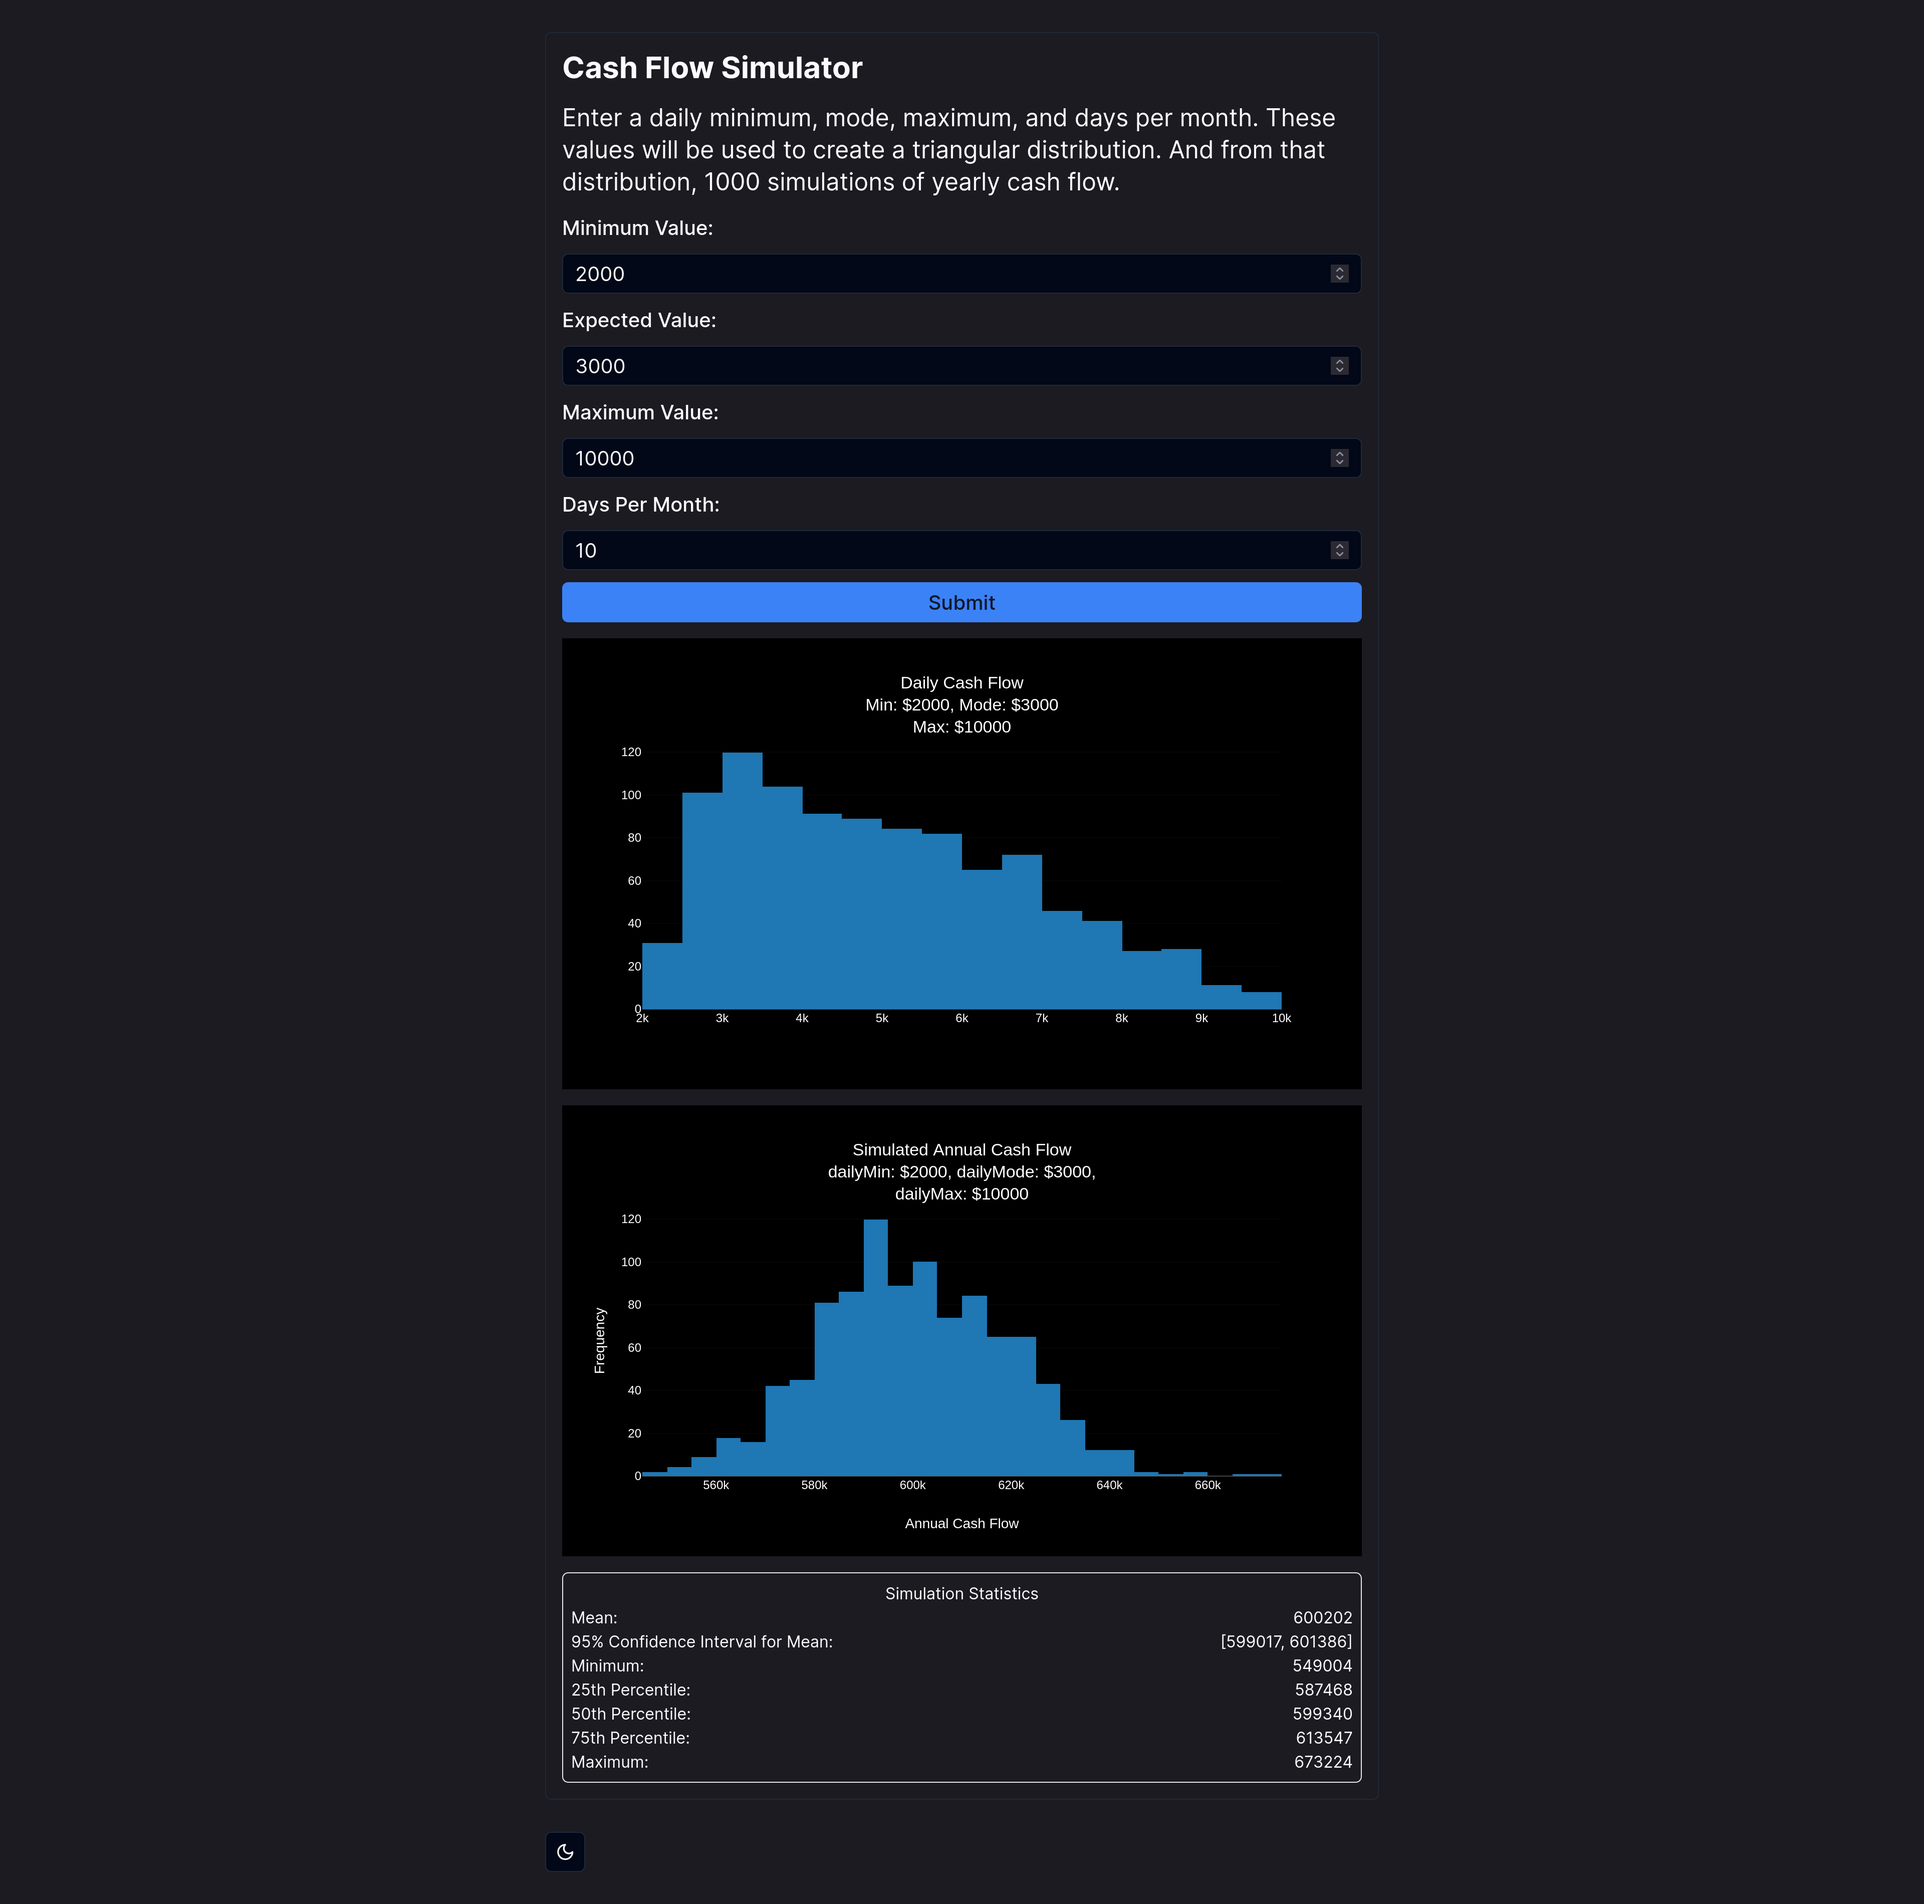
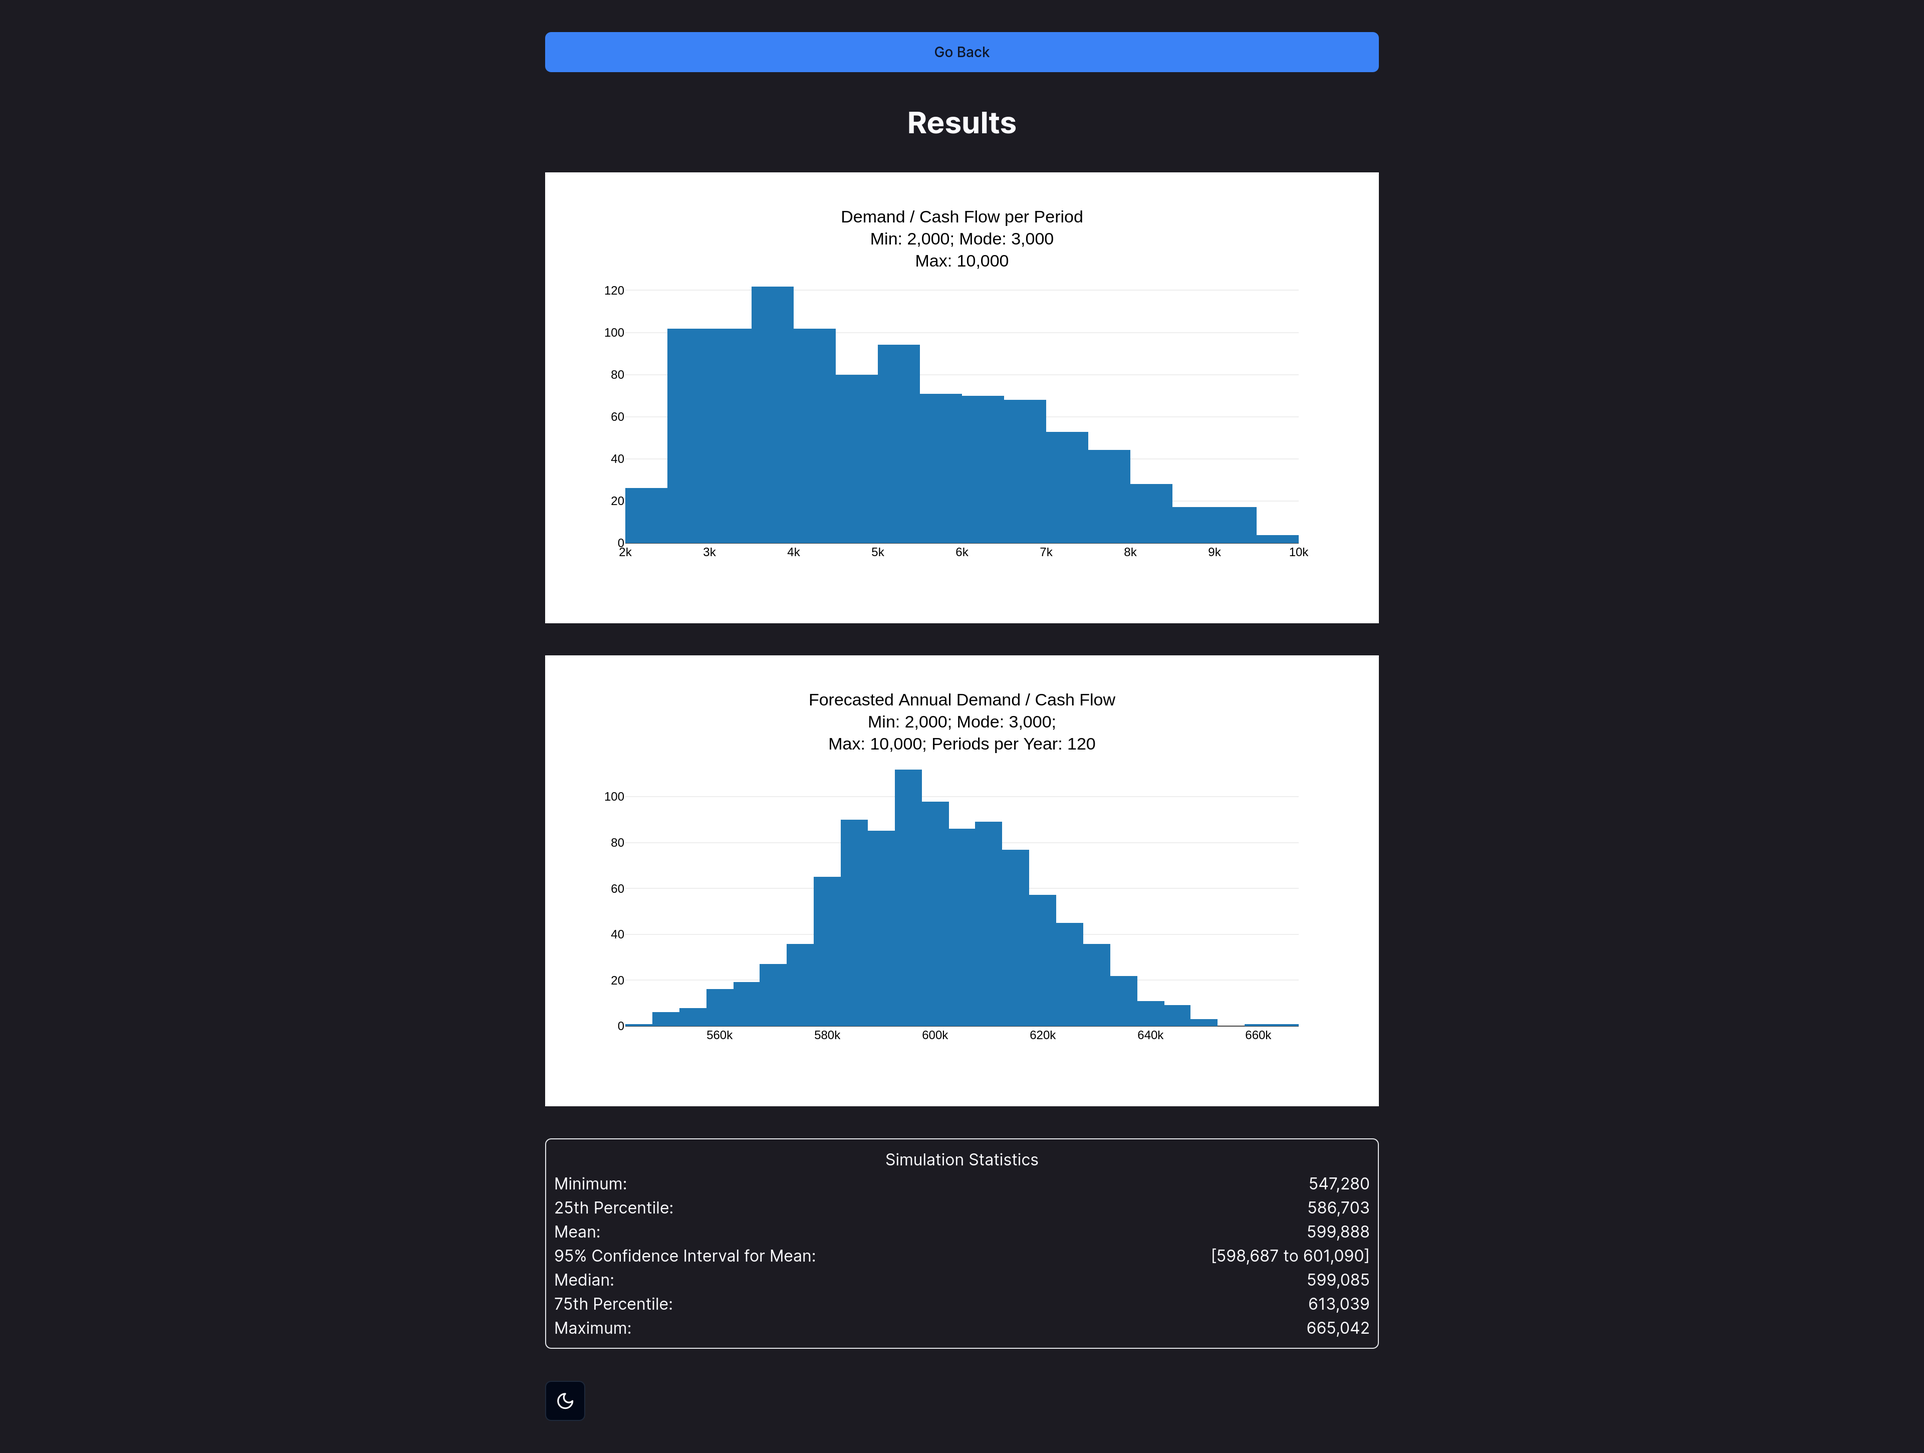
update Simulation image

diff --git a/src/components/ProjectsCarousel.tsx b/src/components/ProjectsCarousel.tsx
@@ -24,7 +24,6 @@ import mySite from "../../public/images/mySite.png";
 import techNotes from "../../public/images/techNotes.png";
 import studyBud from "../../public/images/studyBud.png";
 import wikiRocket from "../../public/images/wikiRocket.png";
-import djangoBlog from "../../public/images/djangoBlog.png";
 import flashCards from "../../public/images/flashCards.png";
 import wordle from "../../public/images/wordle.png";
 import dashboard from "../../public/images/dashboard.png";
@@ -48,8 +47,9 @@ export default function ProjectsCarousel() {
       sourceCode: "https://github.com/remilebeau/dashboard",
     },
     {
-      title: "Simulation",
-      description: "Forecast annual cash flow with Monte Carlo simulation",
+      title: "Demand/Cash Flow Forecasting",
+      description:
+        "Forecast annual demand or cash flow with Monte Carlo simulation",
       image: simulation,
       live: "https://remilebeau-simulation.vercel.app/",
       sourceCode: "https://github.com/remilebeau/simulation",
